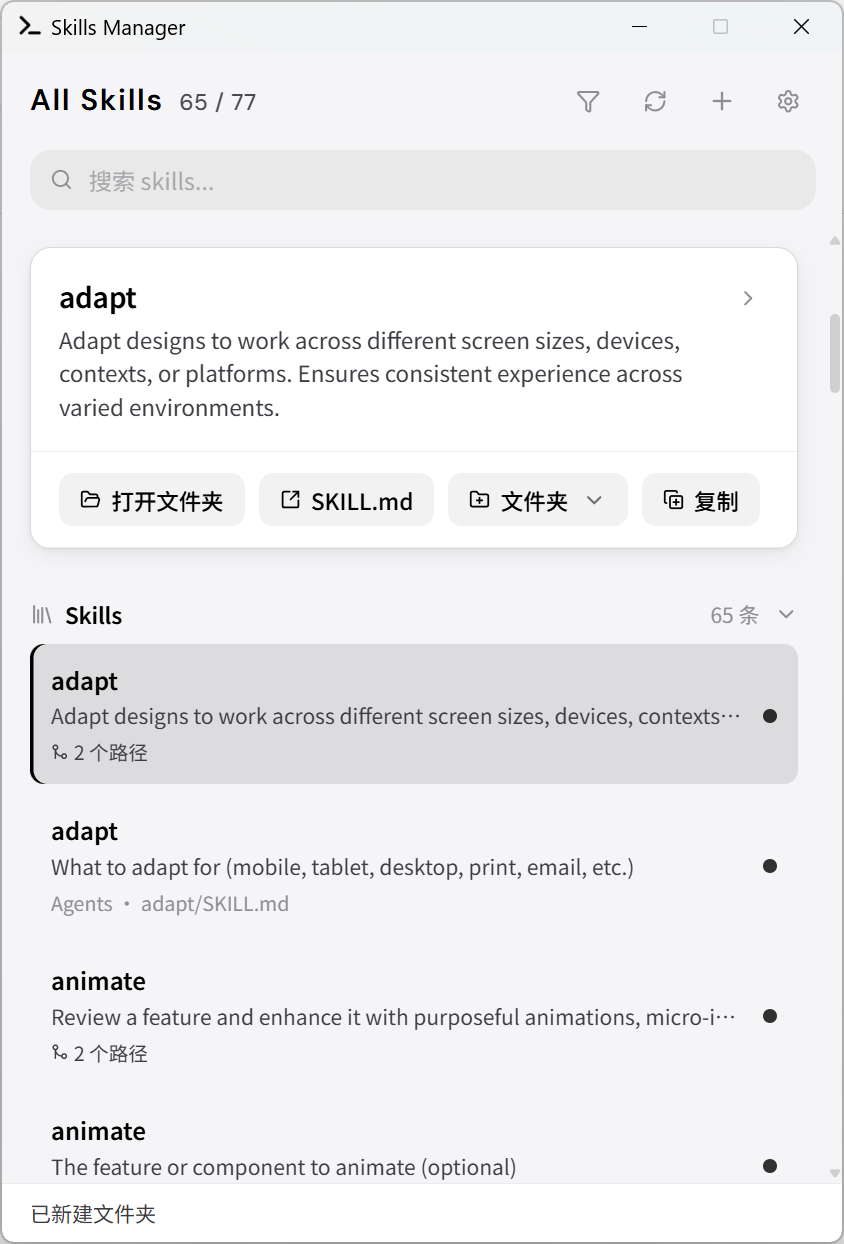
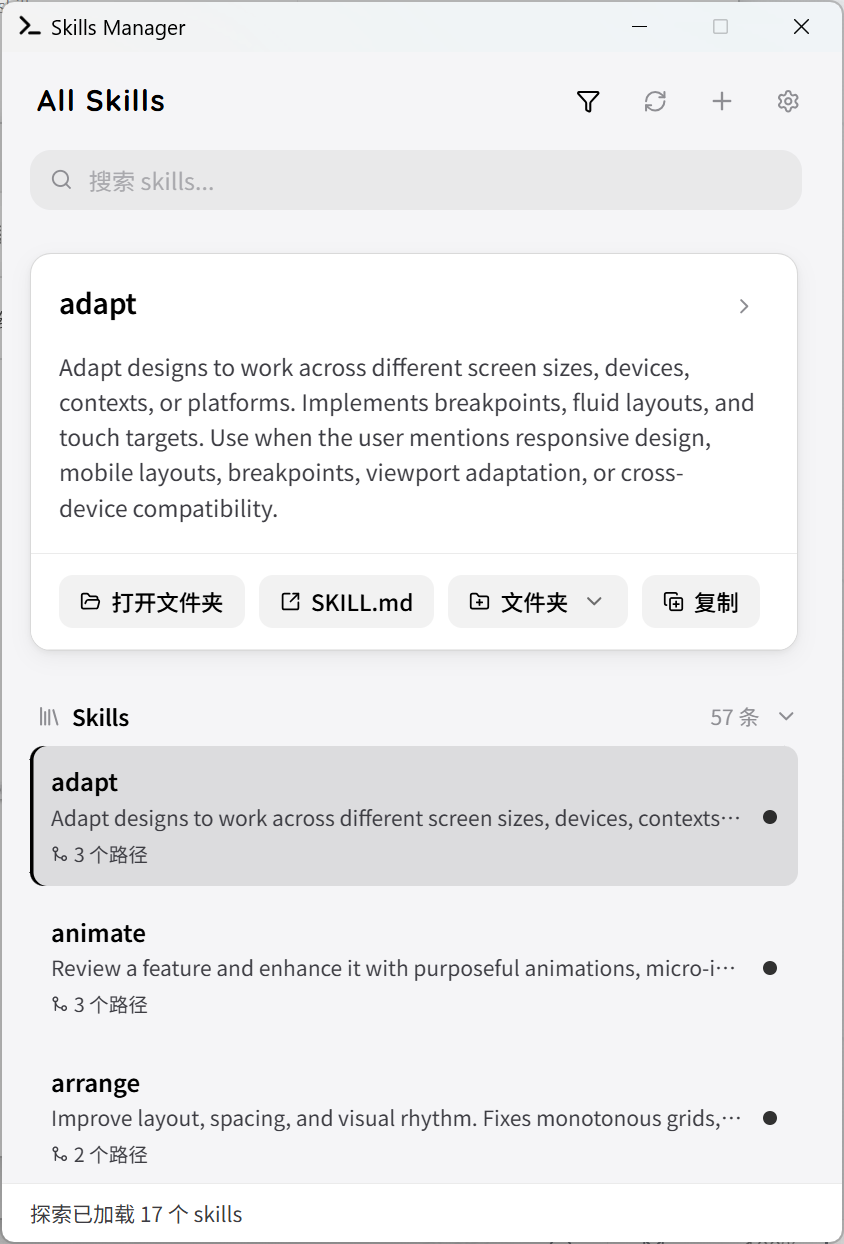
docs(readme): fix screenshot paths and update readme images
Made-with: Cursor

diff --git a/README.md b/README.md
@@ -7,9 +7,9 @@
 支持 Cursor、Codex、Claude Code、Windsurf、Amp 等工具的 skills 目录，统一扫描、浏览、编辑与跨来源复制。
 
 
-|     |     |
-| --- | --- |
-|     |     |
+| Skills Manager 主界面 | 探索 / 来源等视图示例 |
+| ------------------ | ------------ |
+| Skills Manager 主界面 | 探索与其他视图      |
 
 
 ## 功能特性